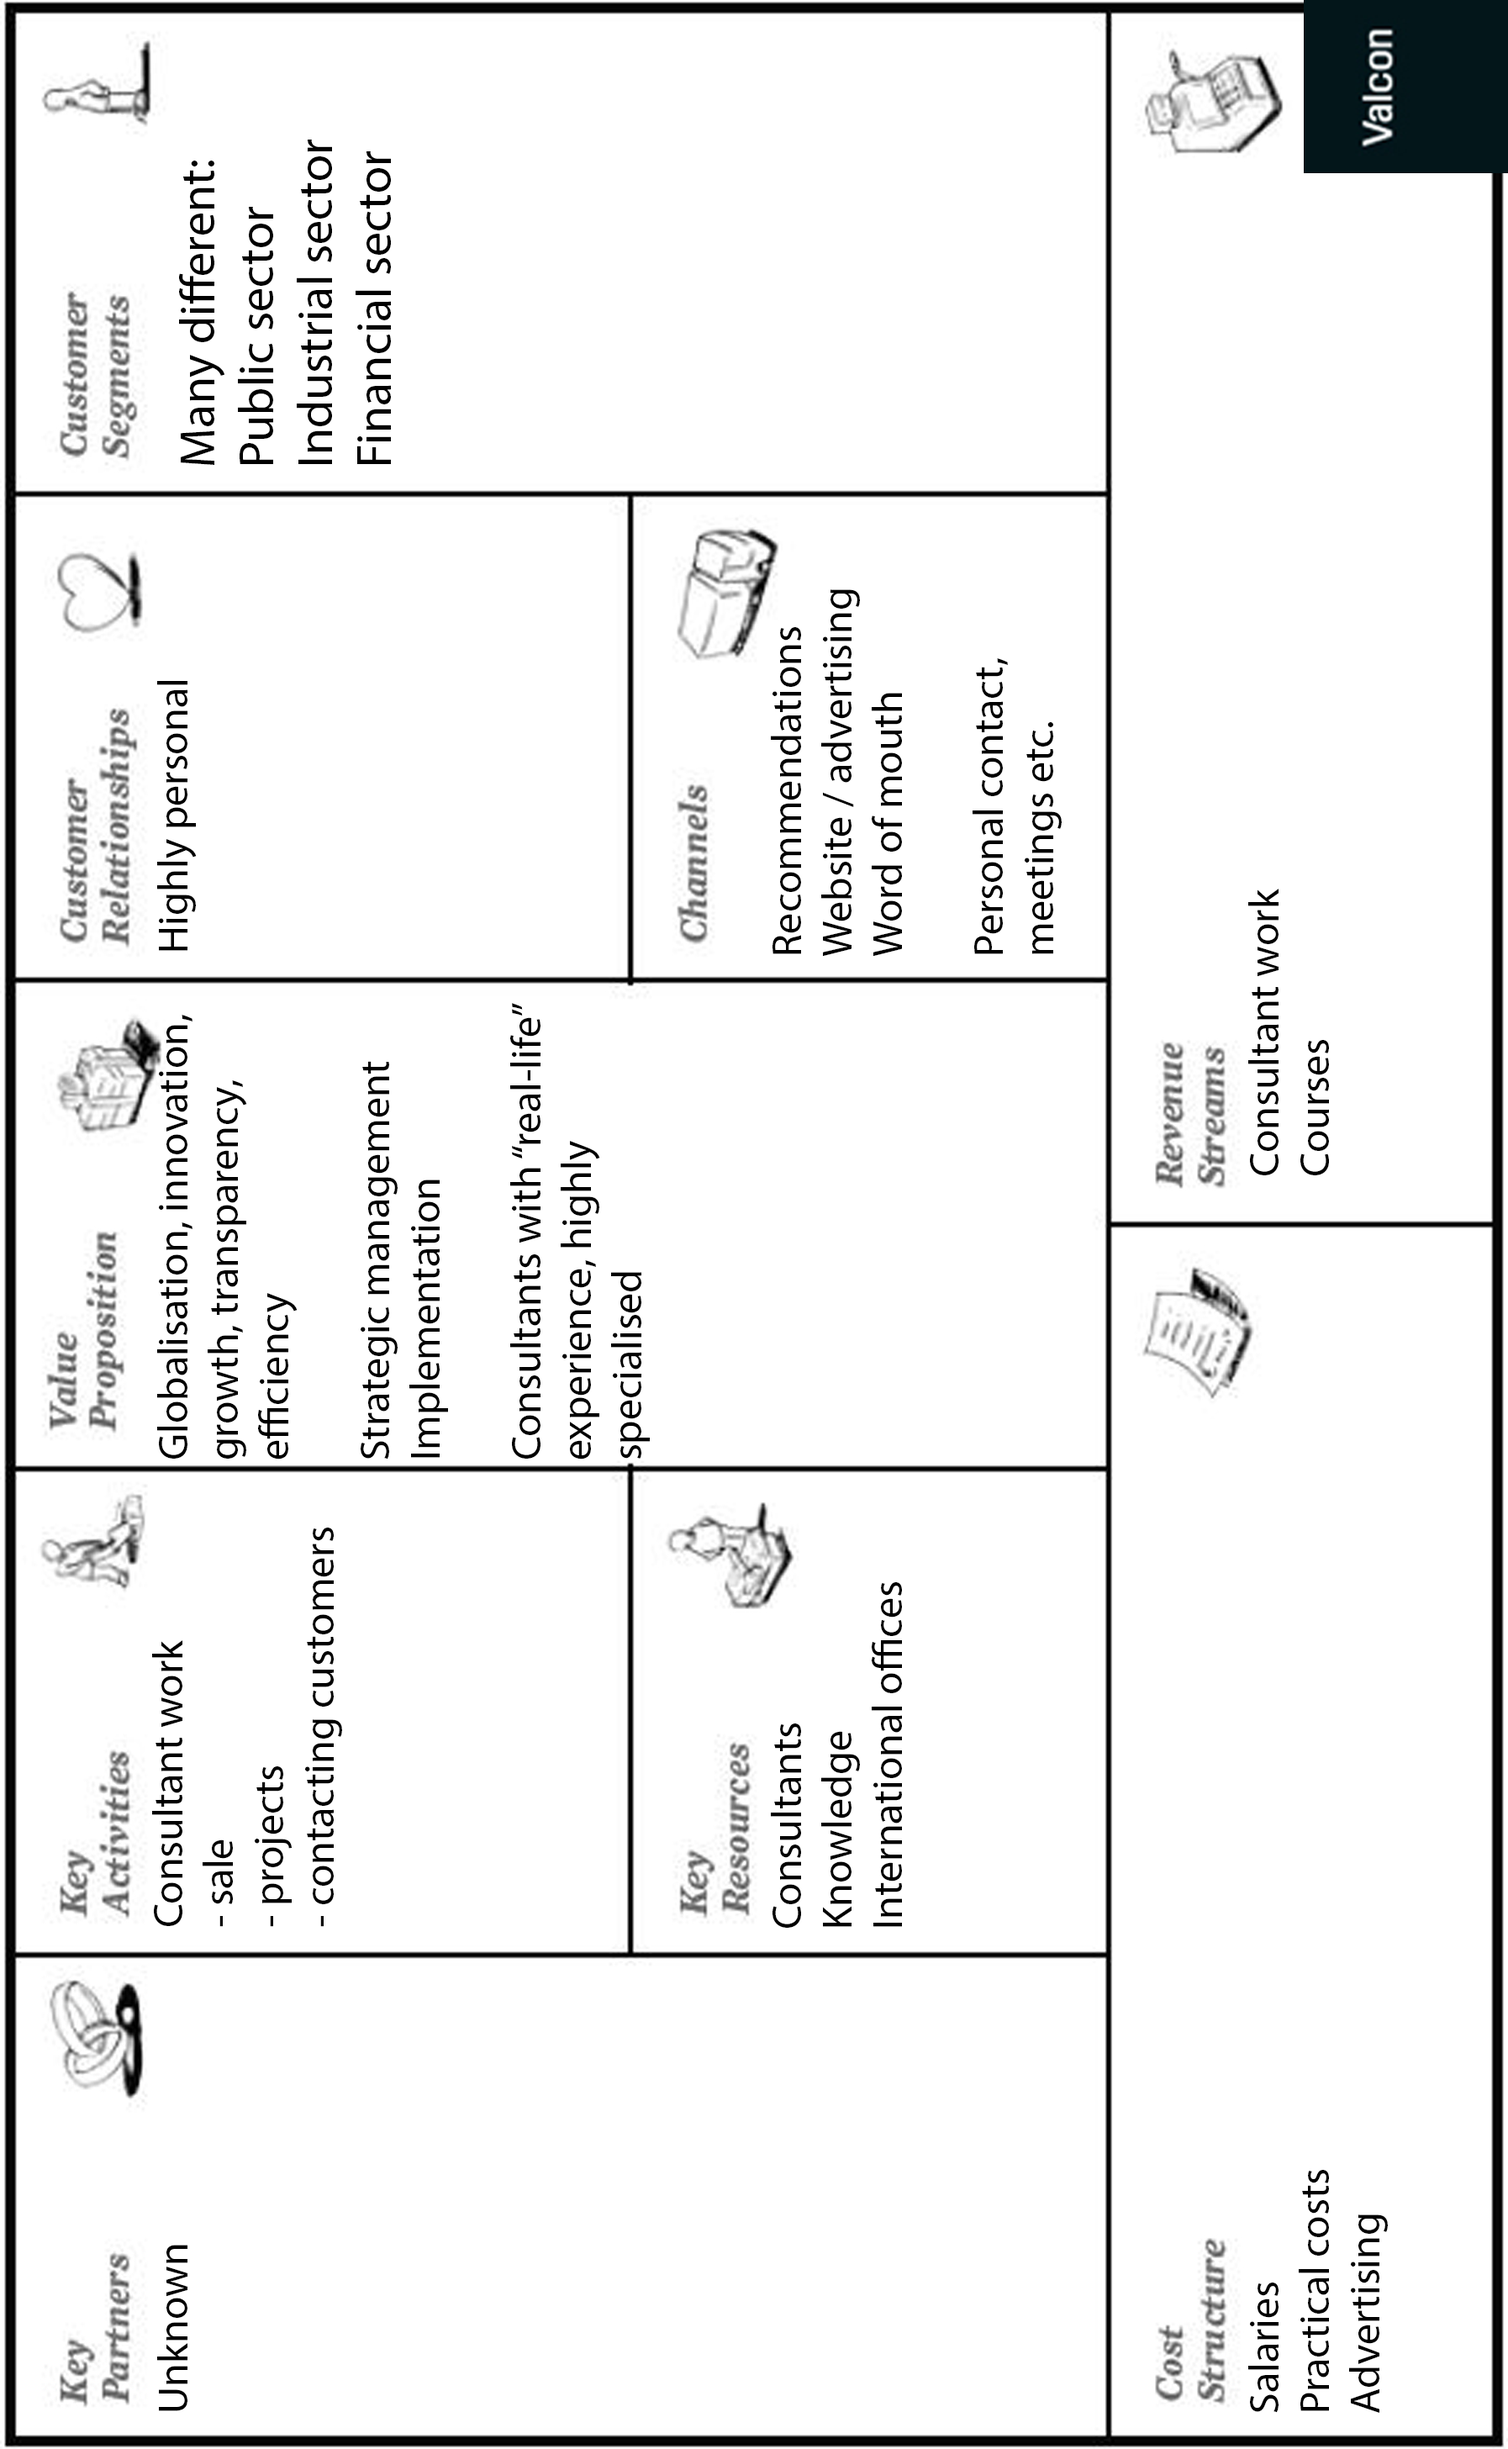
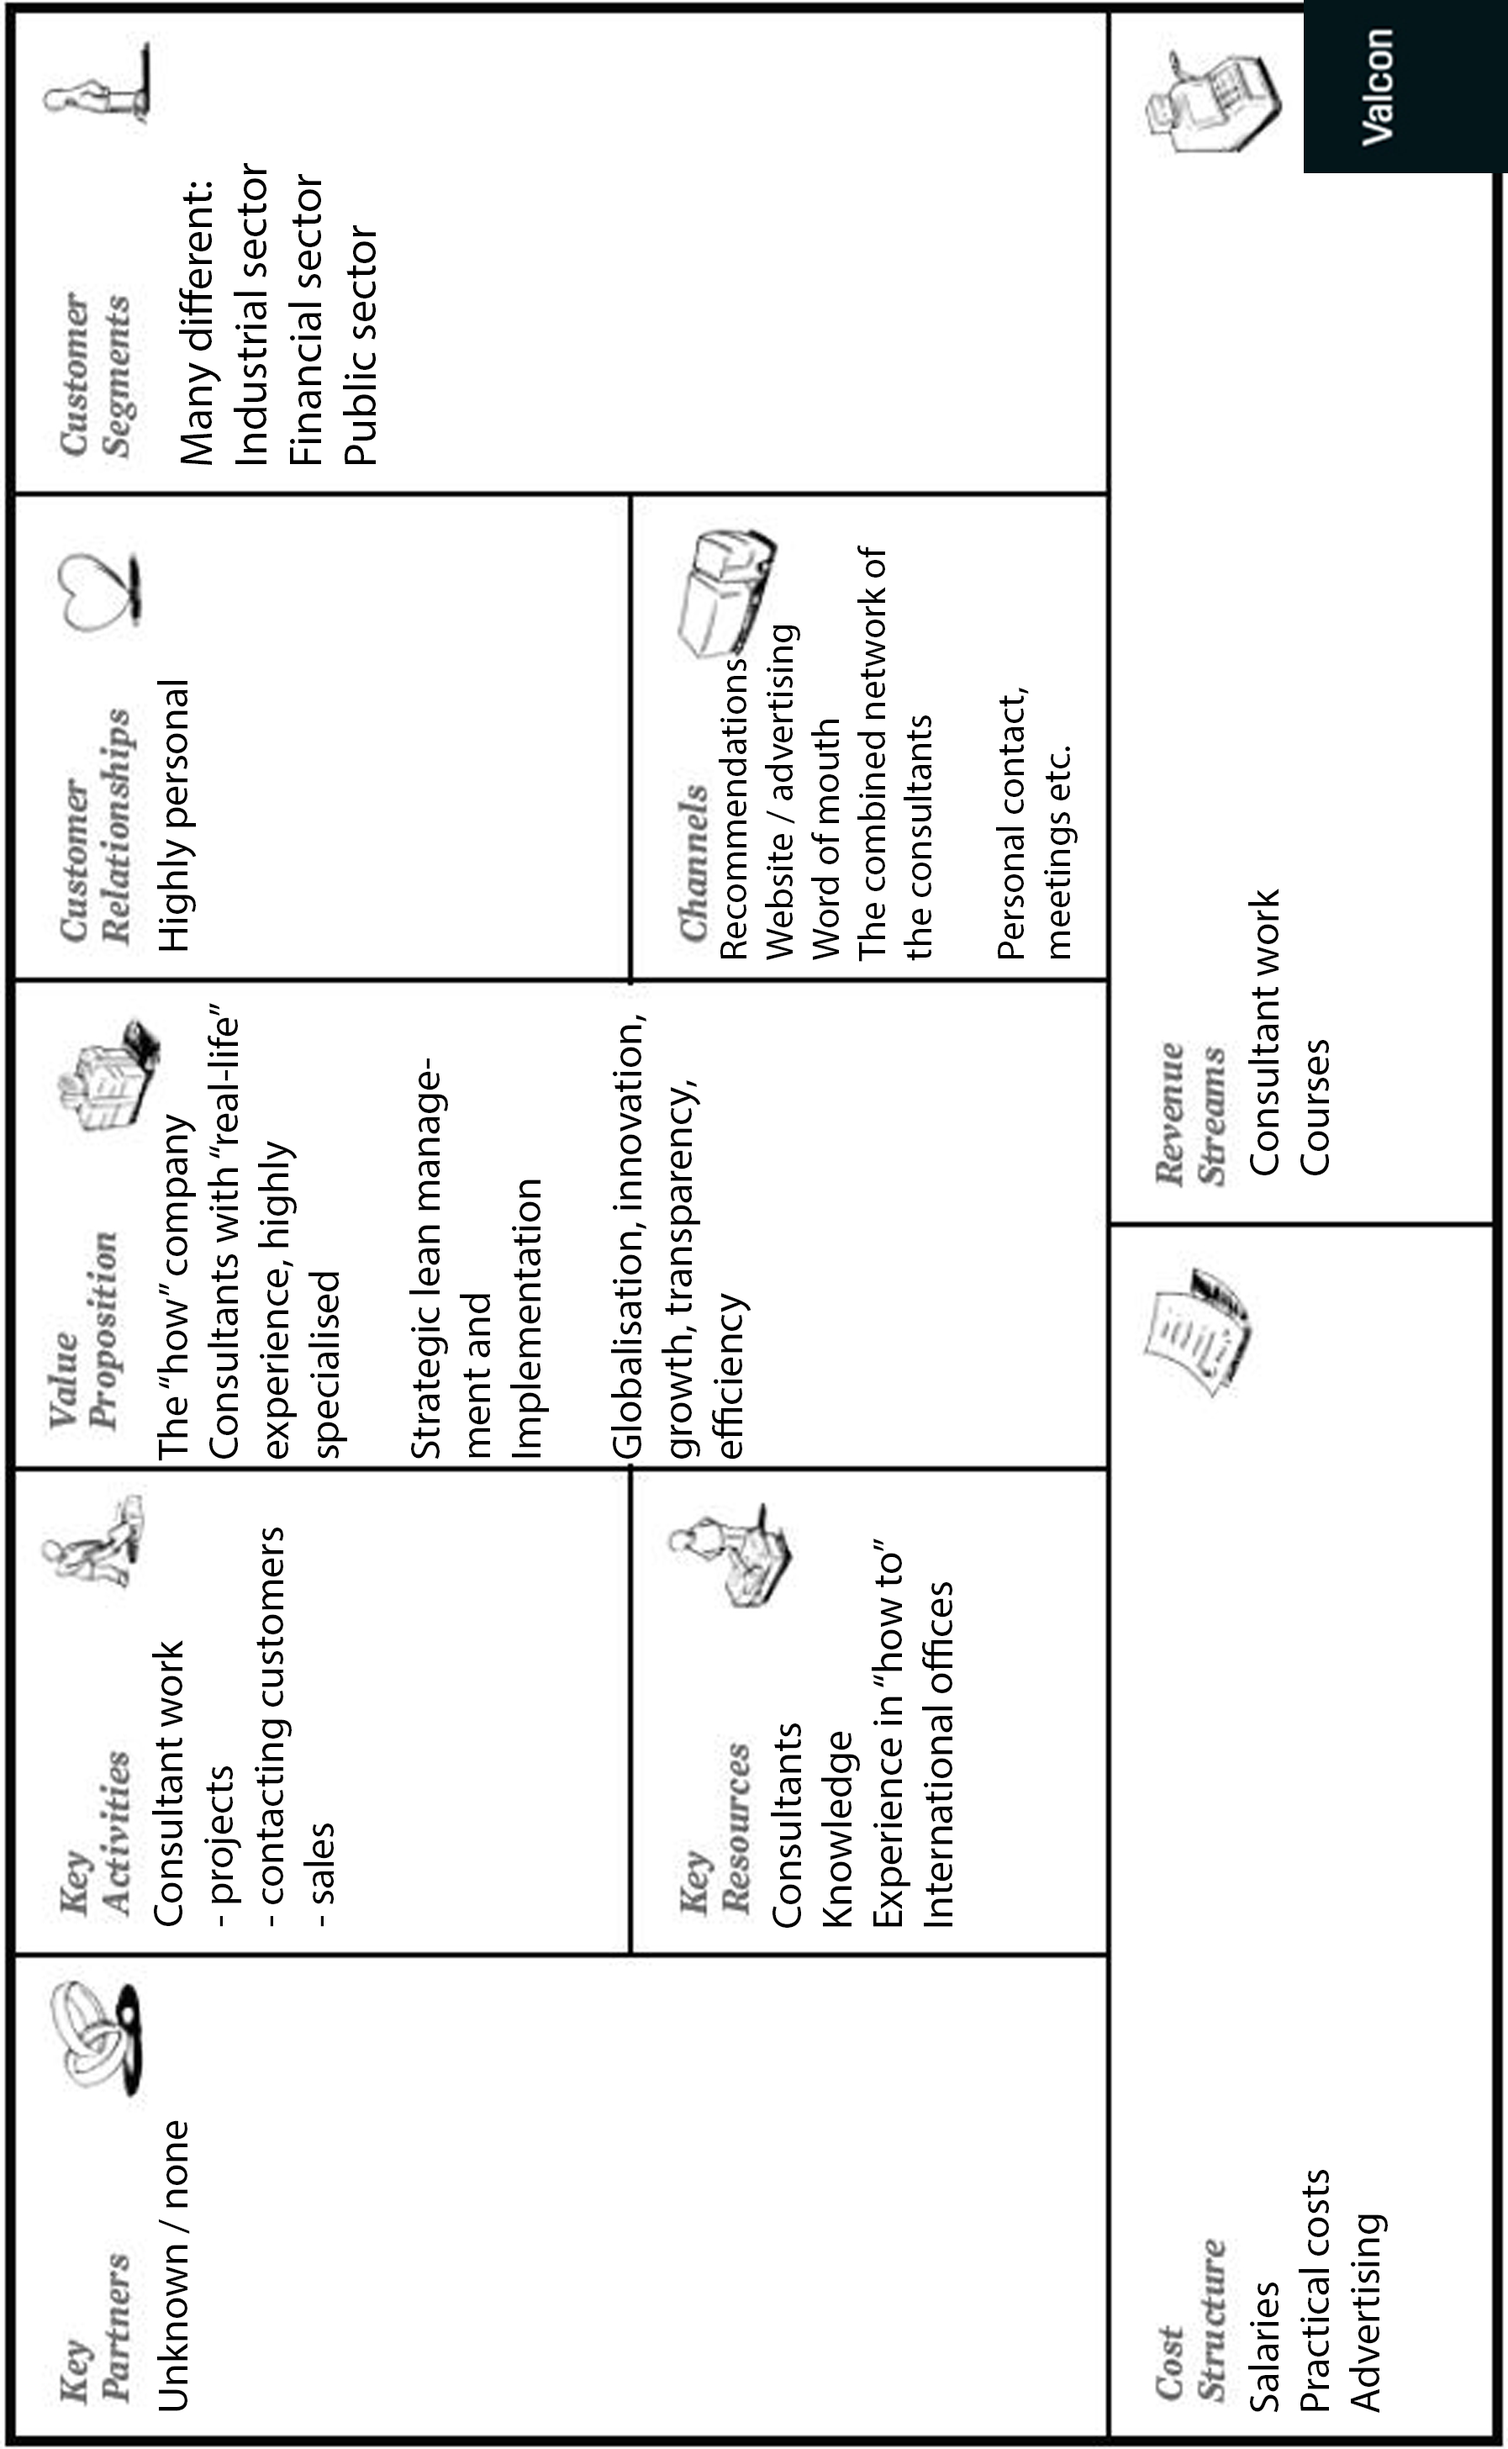
File structure for intro section + updated canvas

diff --git a/inline/canvas.tex b/inline/canvas.tex
@@ -5,7 +5,6 @@ Based on our analysis we have the following understanding of Valcon's canvas.
 \caption{Valcon's business canvas.}
 \label{fig:canvas}
 \end{figure}
-\todo{MIFR: Update canvas image to reflect changes from Danni}
 
 The Business Canvas gives an overview of Valcon as a whole. In relation to the problem it is important to note that the consultants are key resources for Valcon's business, as they are the ones who generate revenue.
 As such it is important that they are able to perform their work effectively as soon as they start working at Valcon. It gives us a good understanding of why the company might value the consultants' time highly.

diff --git a/report.tex b/report.tex
@@ -30,7 +30,7 @@
 \begin{document}
 
 \title{An Examination of the Recruitment Process at Valcon}
-\author{Jakob Ambeck Vase \and Jonas Kastberg Hinrichsen \and Jakob Merrild \and Mikkel Frikke Madsen \and Martin Juul Petersen}
+\author{Jakob Ambeck Vase \and Jonas Kastberg Hinrichsen \and Jakob Merrild \and Michael Frikke Madsen \and Martin Juul Petersen}
 \listoftodos[Todos]
 
 %%Preface

diff --git a/intro/intro.tex b/intro/intro.tex
@@ -1,0 +1,5 @@
+\section{Abstract}
+\input{intro/abstract}
+
+\section{Solutions Already Underway}
+\input{intro/solutions_already_underway}
